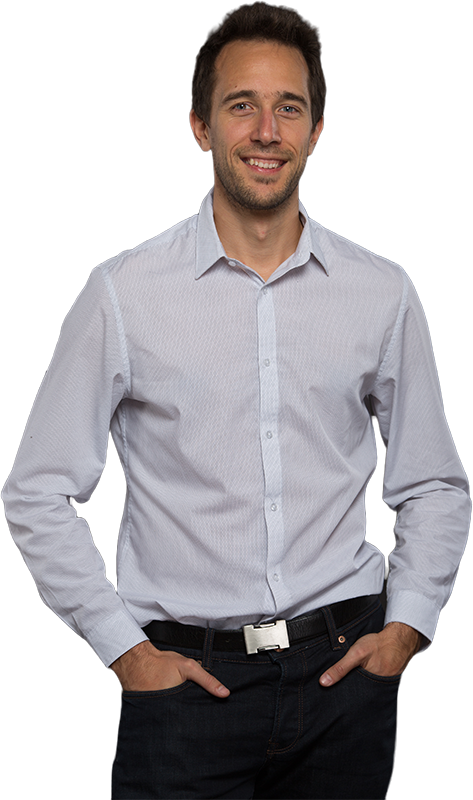
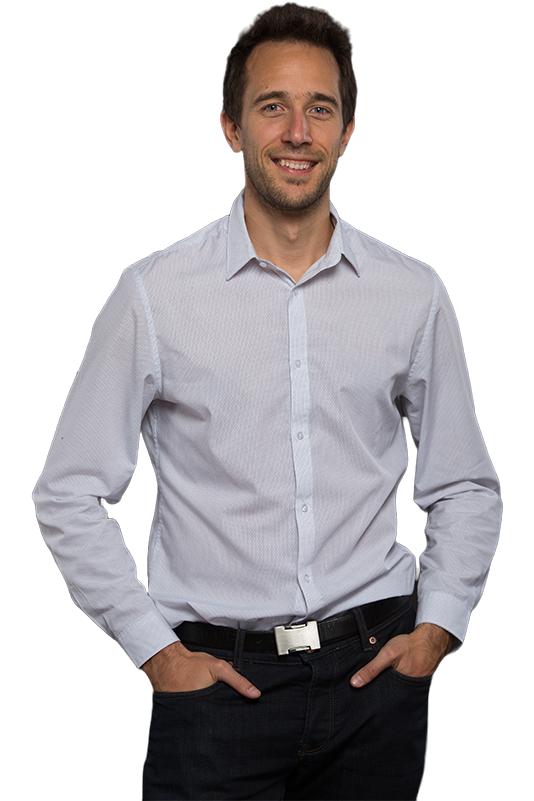
Accessibility, performance fixes. Removed globe from intro.

diff --git a/src/sections/Tech/index.jsx b/src/sections/Tech/index.jsx
@@ -1,7 +1,7 @@
 import * as React from 'react';
 import { Container, Columns, Content } from 'react-bulma-components';
 import { Splash, StrongestTechStack } from '../../components';
-import { watercolor2Sketch } from '../../images';
+import { watercolorSplash2 } from '../../images';
 
 const Tech = () => {
     return (
@@ -15,10 +15,10 @@ const Tech = () => {
                         size: 6,
                         offset: 1,
                     }}>
-                    <h3 className="is-size-3-desktop is-size-4-tablet mb-0 pl-5 pt-4 title is-title-reveal">
+                    <h1 className="is-size-3-desktop is-size-4-tablet mb-0 pl-5 pt-4 title is-title-reveal">
                         <span className="has-text-info">CTO, architect, </span>engineer for{' '}
                         {`${new Date().getFullYear() - 2004}`}+ years
-                    </h3>
+                    </h1>
                     <Content>
                         <ul>
                             <li>
@@ -47,7 +47,7 @@ const Tech = () => {
                     desktop={{
                         size: 4,
                     }}>
-                    <Splash sentence="I'm a tech generalist" imageSrc={watercolor2Sketch} isLeft={false} />
+                    <Splash sentence="I'm a tech generalist" imageSrc={watercolorSplash2} size="1by1" isLeft={false} />
                 </Columns.Column>
                 <Columns.Column
                     mobile={{

diff --git a/src/sections/Lead/index.jsx b/src/sections/Lead/index.jsx
@@ -1,7 +1,7 @@
 import * as React from 'react';
 import { Container, Columns, Content } from 'react-bulma-components';
 import { Splash, ProjectCards } from '../../components';
-import { watercolor1Sketch } from '../../images';
+import { watercolorSplash1 } from '../../images';
 import {} from '..';
 
 const Lead = () => {
@@ -20,7 +20,7 @@ const Lead = () => {
                         size: 4,
                         offset: 1,
                     }}>
-                    <Splash sentence="I lead teams" imageSrc={watercolor1Sketch} isLeft={true} />
+                    <Splash sentence="I lead teams" imageSrc={watercolorSplash1} isLeft={true} size="3by2" />
                 </Columns.Column>
                 <Columns.Column
                     tablet={{
@@ -29,10 +29,10 @@ const Lead = () => {
                     desktop={{
                         size: 6,
                     }}>
-                    <h3 className="is-size-3-desktop is-size-4-tablet mb-0 pl-5 pt-4 title is-title-reveal">
+                    <h1 className="is-size-3-desktop is-size-4-tablet mb-0 pl-5 pt-4 title is-title-reveal">
                         <span className="has-text-danger">{`${new Date().getFullYear() - 2008}`} years</span> in
                         leadership
-                    </h3>
+                    </h1>
                     <Content>
                         <ul>
                             <li>

diff --git a/src/sections/Talent/index.jsx b/src/sections/Talent/index.jsx
@@ -1,7 +1,7 @@
 import * as React from 'react';
 import { Container, Columns, Content } from 'react-bulma-components';
 import { Splash, Testimonials } from '../../components';
-import { watercolor3Sketch } from '../../images';
+import { watercolorSplash3 } from '../../images';
 
 const Talent = () => {
     return (
@@ -19,7 +19,7 @@ const Talent = () => {
                         size: 4,
                         offset: 1,
                     }}>
-                    <Splash sentence="I help the talented" imageSrc={watercolor3Sketch} isLeft={true} />
+                    <Splash sentence="I help the talented" imageSrc={watercolorSplash3} size="1by1" isLeft={true} />
                 </Columns.Column>
                 <Columns.Column
                     tablet={{
@@ -28,9 +28,9 @@ const Talent = () => {
                     desktop={{
                         size: 6,
                     }}>
-                    <h3 className="is-size-3-desktop is-size-4-tablet mb-0 pl-5 pt-4 title is-title-reveal">
+                    <h1 className="is-size-3-desktop is-size-4-tablet mb-0 pl-5 pt-4 title is-title-reveal">
                         <span className="has-text-success">500+ hours </span>spent in teaching and coaching
-                    </h3>
+                    </h1>
                     <Content>
                         <ul>
                             <li>

diff --git a/gatsby-config.js b/gatsby-config.js
@@ -44,7 +44,6 @@ module.exports = {
         `gatsby-transformer-json`,
 
         // GENERAL
-        `gatsby-plugin-offline`,
         `gatsby-plugin-robots-txt`,
         {
             resolve: `gatsby-plugin-sitemap`,
@@ -69,6 +68,31 @@ module.exports = {
                         url: path,
                         lastmod: modifiedGmt,
                     };
+                },
+            },
+        },
+        {
+            resolve: `gatsby-plugin-manifest`,
+            options: {
+                name: `László Békéssy | Intro, contact, portfolio`,
+                short_name: `laszlo.bekessy.me`,
+                description: `Intro, contact, and portfolio page for László Békéssy @borzos6`,
+                start_url: `/`,
+                background_color: `#fff`,
+                theme_color: `#34AAE1`,
+                display: `standalone`,
+                icon: `src/images/profile/profile-rounded-800.webp`,
+                icon_options: {
+                    purpose: `any maskable`,
+                },
+                cache_busting_mode: `none`,
+            },
+        },
+        {
+            resolve: `gatsby-plugin-offline`,
+            options: {
+                workboxConfig: {
+                    globPatterns: [`**/icon-path*`],
                 },
             },
         },

diff --git a/src/components/IntroPicture/index.jsx b/src/components/IntroPicture/index.jsx
@@ -1,22 +1,12 @@
 import * as React from 'react';
 import { Image } from 'react-bulma-components';
-import { standingProfilePicture, globe1Sketch, globe2Sketch } from '../../images';
-import * as syles from './styles.module.scss';
+import { standingProfilePicture } from '../../images';
+import * as styles from './styles.module.scss';
 
 const IntroPicture = () => {
     return (
-        <div className={syles.container}>
-            <Image src={standingProfilePicture} className={`${syles.profile} ${syles.picture}`} alt="Profile" />
-            <Image
-                src={globe1Sketch}
-                className={`${syles.sketch} ${syles.picture}`}
-                alt="Tech globe sketch 1st layer"
-            />
-            <Image
-                src={globe2Sketch}
-                className={`${syles.sketch} ${syles.picture}`}
-                alt="Tech globe sketch 2nd layer"
-            />
+        <div className={styles.container}>
+            <Image src={standingProfilePicture} className={`${styles.profile}`} alt="Profile" size="2by3" />
         </div>
     );
 };

diff --git a/src/images/index.js b/src/images/index.js
@@ -2,13 +2,11 @@
 export { default as standingProfilePicture } from './profile/profile-standing-800.webp';
 export { default as roundedProfilePicture } from './profile/profile-rounded-800.webp';
 
-// Sketches
-export { default as globe1Sketch } from './sketches/globe-1.webp';
-export { default as globe2Sketch } from './sketches/globe-2.webp';
-export { default as watercolor1Sketch } from './sketches/watercolor-1.webp';
-export { default as watercolor2Sketch } from './sketches/watercolor-2.webp';
-export { default as watercolor3Sketch } from './sketches/watercolor-3.webp';
-export { default as watercolor4Sketch } from './sketches/watercolor-4.webp';
+// Splashes
+export { default as watercolorSplash1 } from './splash/watercolor-1.webp';
+export { default as watercolorSplash2 } from './splash/watercolor-2.webp';
+export { default as watercolorSplash3 } from './splash/watercolor-3.webp';
+export { default as watercolorSplash4 } from './splash/watercolor-4.webp';
 
 // Projects
 export { default as projectCodeBerry } from './projects/codeberry.svg';

diff --git a/src/sections/Intro/index.jsx b/src/sections/Intro/index.jsx
@@ -9,7 +9,7 @@ const Intro = () => {
                 <Container>
                     <Columns vCentered={true} className="is-mobile">
                         <Columns.Column
-                            mobile={{ size: 8 }}
+                            mobile={{ size: 7 }}
                             tablet={{ size: 4, offset: 1 }}
                             className="landing-caption has-text-centered">
                             <p className="subtitle is-size-5-tablet is-size-6-mobile is-muted">Hello. I am</p>
@@ -18,7 +18,7 @@ const Intro = () => {
                             </h2>
                             <ContactPoints />
                         </Columns.Column>
-                        <Columns.Column mobile={{ size: 4 }} tablet={{ size: 6, offset: 1 }}>
+                        <Columns.Column mobile={{ size: 5 }} tablet={{ size: 6, offset: 1 }}>
                             <IntroPicture />
                         </Columns.Column>
                     </Columns>

diff --git a/src/components/IntroPicture/styles.module.scss b/src/components/IntroPicture/styles.module.scss
@@ -1,39 +1,20 @@
-.picture {
+.profile {
+    transform: translateX(-25%);
+    z-index: 0;
+    transition: all 1s ease;
     clip-path: ellipse(68% 50% at 50% 50%);
 }
 
-.profile {
-    transform: translateX(-55%);
-    z-index: 0;
-    width: 22vw;
-    transition: all 1s ease;
-}
-
-.sketch {
-    position: absolute;
-    transform: translateX(5%) rotate(180deg);
-    top: 1vmin;
-    width: 35vw;
-    z-index: -2;
-    transition: all 2s ease;
-    opacity: .5;
-}
-
-.container {   
-    &:hover > .sketch {
-        transform: translateX(0%) rotate(170deg);
-    }
+.container {  
+    max-width: 30vw; 
+    min-width: 120px; 
 
     &:hover > .profile { 
-        transform: translateX(-50%);
+        transform: translateX(-30%);
     }
 }
 
 @media screen and (max-width: 600px) {
-    .sketch {
-        top: 2.5vw;
-    }
-
     .profile {
         bottom: 2vh;
     }

diff --git a/src/components/Splash/index.jsx b/src/components/Splash/index.jsx
@@ -6,7 +6,12 @@ import * as styles from './styles.module.scss';
 const Splash = (props) => {
     return (
         <div className={`${props.isLeft ? styles.containerLeft : styles.containerRight} has-text-centered`}>
-            <Image src={props.imageSrc} className={`${styles.sketch} image`} alt="Watercolor splash" />
+            <Image
+                src={props.imageSrc}
+                className={`${styles.splash} image`}
+                size={props.size}
+                alt="Watercolor splash"
+            />
             <h1 className={`${styles.sentence}`}>{props.sentence}</h1>
         </div>
     );
@@ -16,6 +21,7 @@ Splash.propTypes = {
     isLeft: PropTypes.bool,
     sentence: PropTypes.string,
     imageSrc: PropTypes.string,
+    size: PropTypes.string,
 };
 
 export { Splash };

diff --git a/src/components/PageFooter/index.jsx b/src/components/PageFooter/index.jsx
@@ -1,12 +1,12 @@
 import * as React from 'react';
 import { Content, Hero, Footer, Container, Image } from 'react-bulma-components';
-import { watercolor4Sketch } from '../../images';
+import { watercolorSplash4 } from '../../images';
 import * as styles from './styles.module.scss';
 
 const PageFooter = () => {
     return (
         <Hero size="small" className={styles.footer}>
-            <Image src={watercolor4Sketch} className={styles.background} alt="Footer watercolor image" />
+            <Image src={watercolorSplash4} className={styles.background} alt="Footer watercolor image" />
             <Hero.Footer>
                 <Footer>
                     <Container>

diff --git a/src/components/StrongestTechStack/index.jsx b/src/components/StrongestTechStack/index.jsx
@@ -18,9 +18,9 @@ const StrongestTechStack = () => {
     `);
     return (
         <div className="px-5">
-            <h5 className="title mb-0 is-size-5">
+            <h2 className="title mb-0 is-size-5">
                 My actual <span className="has-text-info">strongest</span> stack
-            </h5>
+            </h2>
             <Columns className="mt-4 pl-3 is-mobile">
                 {data.allContentJson.nodes[0].strongestActualTechStack.map((node) => (
                     <TechStackIcon key={node.name} devicon={node.devicon} name={node.name} />

diff --git a/src/components/Divider/index.jsx b/src/components/Divider/index.jsx
@@ -1,10 +1,10 @@
 import * as React from 'react';
 import PropTypes from 'prop-types';
-import * as syles from './styles.module.scss';
+import * as styles from './styles.module.scss';
 
 const Divider = (props) => {
     return (
-        <div className={`${syles.divider} ${props.text ? syles.withText : ''}`}>
+        <div className={`${styles.divider} ${props.text ? styles.withText : ''}`}>
             <span className="has-text-centered">{props.text}</span>
         </div>
     );
